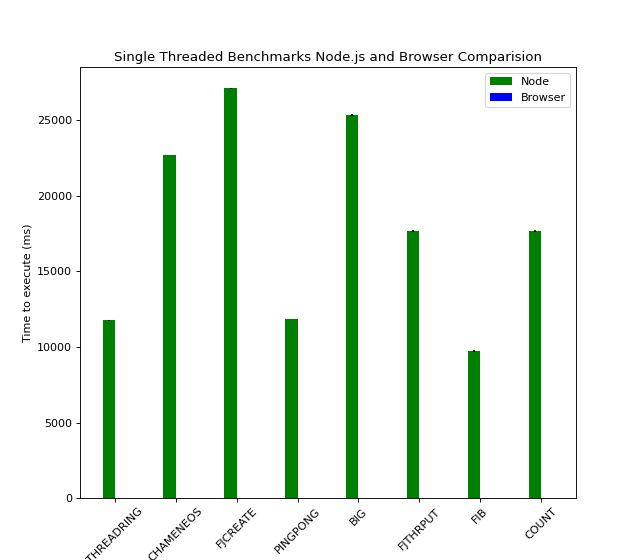
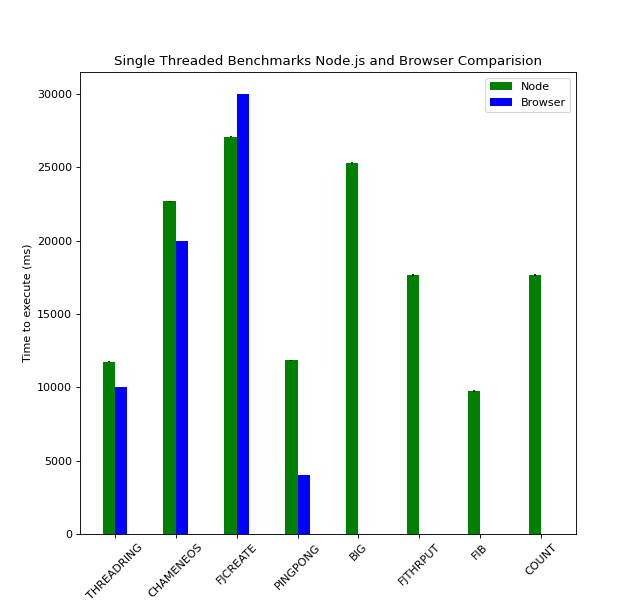
Added other similar implementations to literature review

diff --git a/documentation/fyp-report/fyp.tex b/documentation/fyp-report/fyp.tex
@@ -114,7 +114,7 @@ an abstract
 \chapter{Introduction}
 \section{Motivation}
 %Why JavaScript
-JavaScript is widely used for client applications on the browser and benefits from a growing popularity of server-side applications using environments such as Node.js. It is a single threaded language which lacks an intuitive way to program in a concurrent and distributed fashion. This dissertation presents a prototype that implements a JavaScript framework which allows developers to build actor-based systems. Developers can use actors as concurrent units of computation which can be deployed either locally or remotely on multiple node runtimes and browsers. This will allow JavaScript applications to intuitively distribute work amongst multiple processes and devices to reduce the time taken to solve a particular problem.
+JavaScript is widely dominates client applications on the browser and benefits from a growing popularity of server-side applications using environments such as Node.js. It is a single threaded language which lacks an intuitive way to program in a parallel and distributed fashion. This dissertation presents a prototype that implements a JavaScript framework which allows developers to build actor-based systems. Developers can use actors as concurrent units of computation which can be deployed either locally or remotely on multiple node runtimes and browsers. This will allow developers to intuitively distribute work amongst multiple processors and devices to fully utilise the hardware usually available in servers and modern computers.
 
 %Why Actors
 Actors~\cite{hewitt1973session}\cite{43years} communicate with each other through messages which are stored in the receiving actor's message queue. A message is processed by executing its defined actor behaviour. The Actor Model is a good fit for JavaScript's event loop~\cite{eventloopbrowser}\cite{eventloopnode} since they are both event driven. The Actor Model has already achieved success in the telecommunications industry and is more recently used for implementing distributed systems in languages such as Erlang and Scala/Akka~\cite{haller2012integration}.
@@ -143,13 +143,14 @@ Clooney~\cite{clooney} is described as an actor library for the browser by the G
 
 Nact~\cite{nact} is a more faithful implementation to the Actor model as it relies on message passing for communication between isolated actors rather than Clooney's function calls. One spawns an actor by defining a function with the state, message and system context as the parameters. The function will be called for every message that is sent to the spawned actor. Network transparency has not been implemented for nact, making it more complex to have actors spawned on remote devices over the internet.
 
-\textbf{Akka.js}~\cite{stivan2015akka} allows developers to cross-compile Akka to JavaScript browsers and server-side runtimes. This framework allows developers to build distributed applications using separate browsers using WebRTC. It also incentivises developers to only be knowledgeable with Scala to deploy actors on both the browser and the server.
+\textbf{Akka.js}~\cite{stivan2015akka} allows developers to cross-compile Akka to JavaScript browsers and server-side runtimes. This framework allows developers to build distributed applications using separate browsers using WebRTC~. It also incentivises developers to only be knowledgeable with Scala to deploy actors on both the browser and the server.
 
 A project similar to this dissertation's prototype is called \textbf{Spiders.js}~\cite{spidersjs}. The paper identifies the problem of different API's being used for web workers and child processes, both of which are inspired by the actor model for constructing parallel systems using JavaScript. This project is focused on defining a single actor model API no matter if it's a client or server-side application. The paper benchmarks the usage of Spiders.js against JavaScript native web workers as well as the actor creation overhead for both. The results are in favour of using web workers for such tasks. This is no surprise as the project is an abstraction built on top web workers on the client side.
 
-TigerQuoll~\cite{tigerquoll}
+TigerQuoll~\cite{tigerquoll} took a different approach when providing parallelism to the language. It acknowledged the actor model as too limited for the requirements of more complex patterns that occur in modern applications. Instead it allows developers to use regular event based programming to register events for parallel processing. Other popular implementations on GitHub are Drama~\cite{drama} and Comedy~\cite{comedy}, both of which allow for sending messages to spawned actors. The latter implementation allows for spawning of actors on remote machines.
 \chapter{Design}
 \section{Design Goals}
+
 \section{Using the API}
 This section explores each of the functions that the framework exposes which developers will interact with to make use of the Actor Model in JavaScript. Using ES6 Modules the functions are imported as follows.
 \begin{lstlisting}

diff --git a/benchmarks/visualisations/singlethread.py b/benchmarks/visualisations/singlethread.py
@@ -40,12 +40,13 @@ node_errors = [np.std(node_data[key])/np.sqrt(np.size(node_data[key])) for key i
 # browser_averages = [np.average(browser_data[key]) for key in browser_data.keys()]
 # browser_errors = [np.std(browser_data[key])/np.sqrt(np.size(browser_data[key])) for key in browser_data.keys()] 
 
-browser_averages = [1,2,3,4,5,6,7,8]
+browser_averages = [10000,20000,30000,4000,5,6,7,8]
 browser_errors = [1,2,3,4,5,6,7,8]
 
 X_axis = np.arange(len(node_averages))
 width=0.2
-figure(figsize=(8, 7), dpi=80)
+figure(figsize=(8, 7.5), dpi=80)
+
 plt.bar(X_axis-0.1, node_averages, width, color='green', label='Node', yerr=node_errors)
 plt.bar(X_axis+0.1, browser_averages, width, color='blue', label='Browser', yerr=browser_errors)
 
